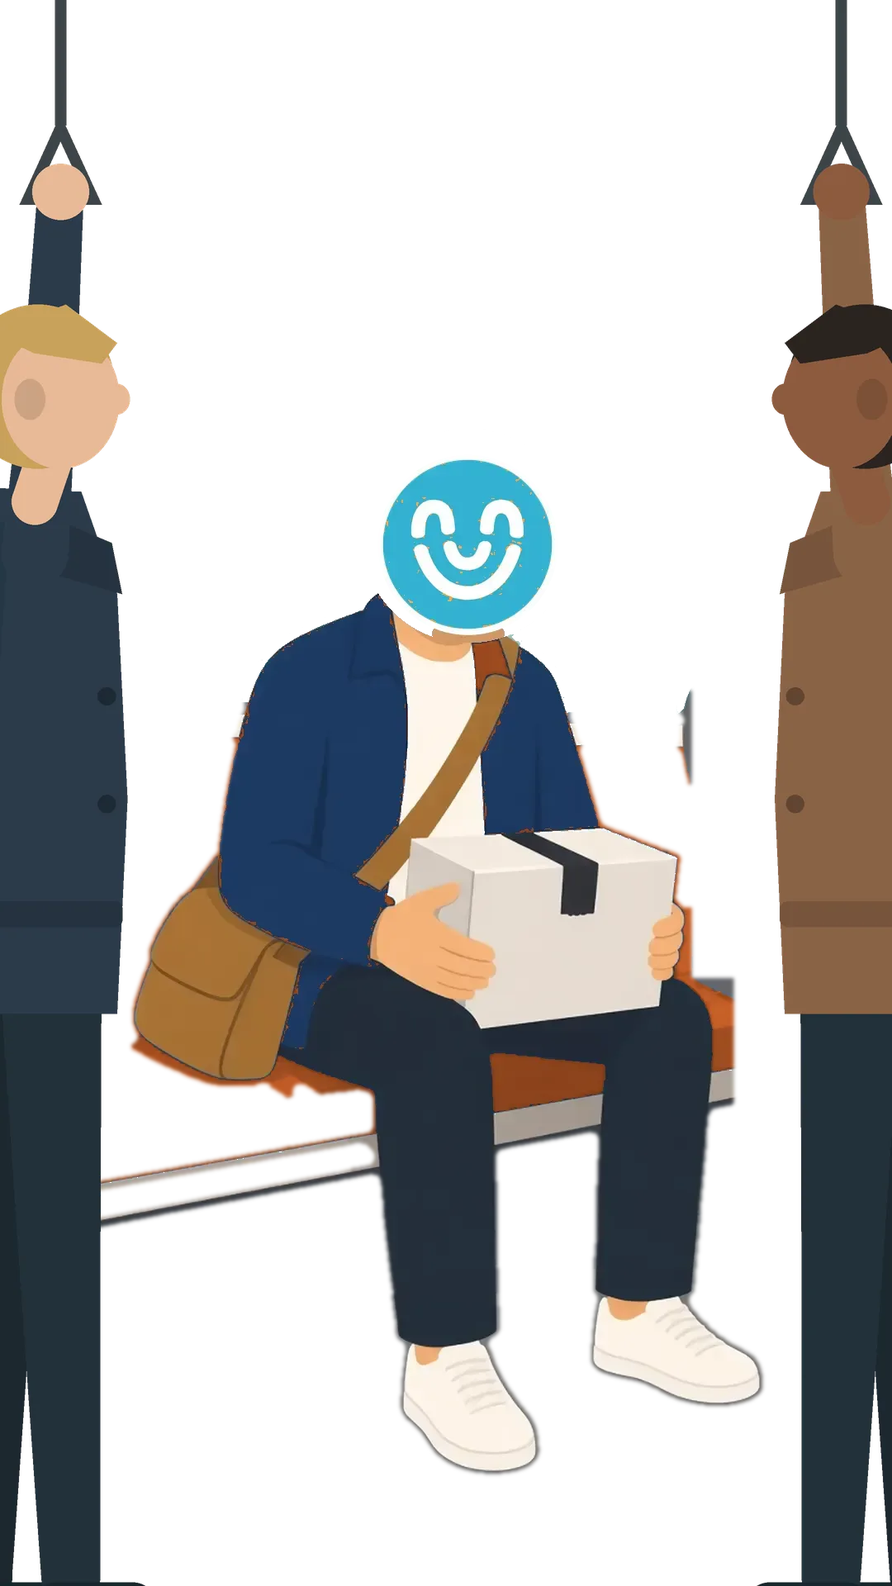
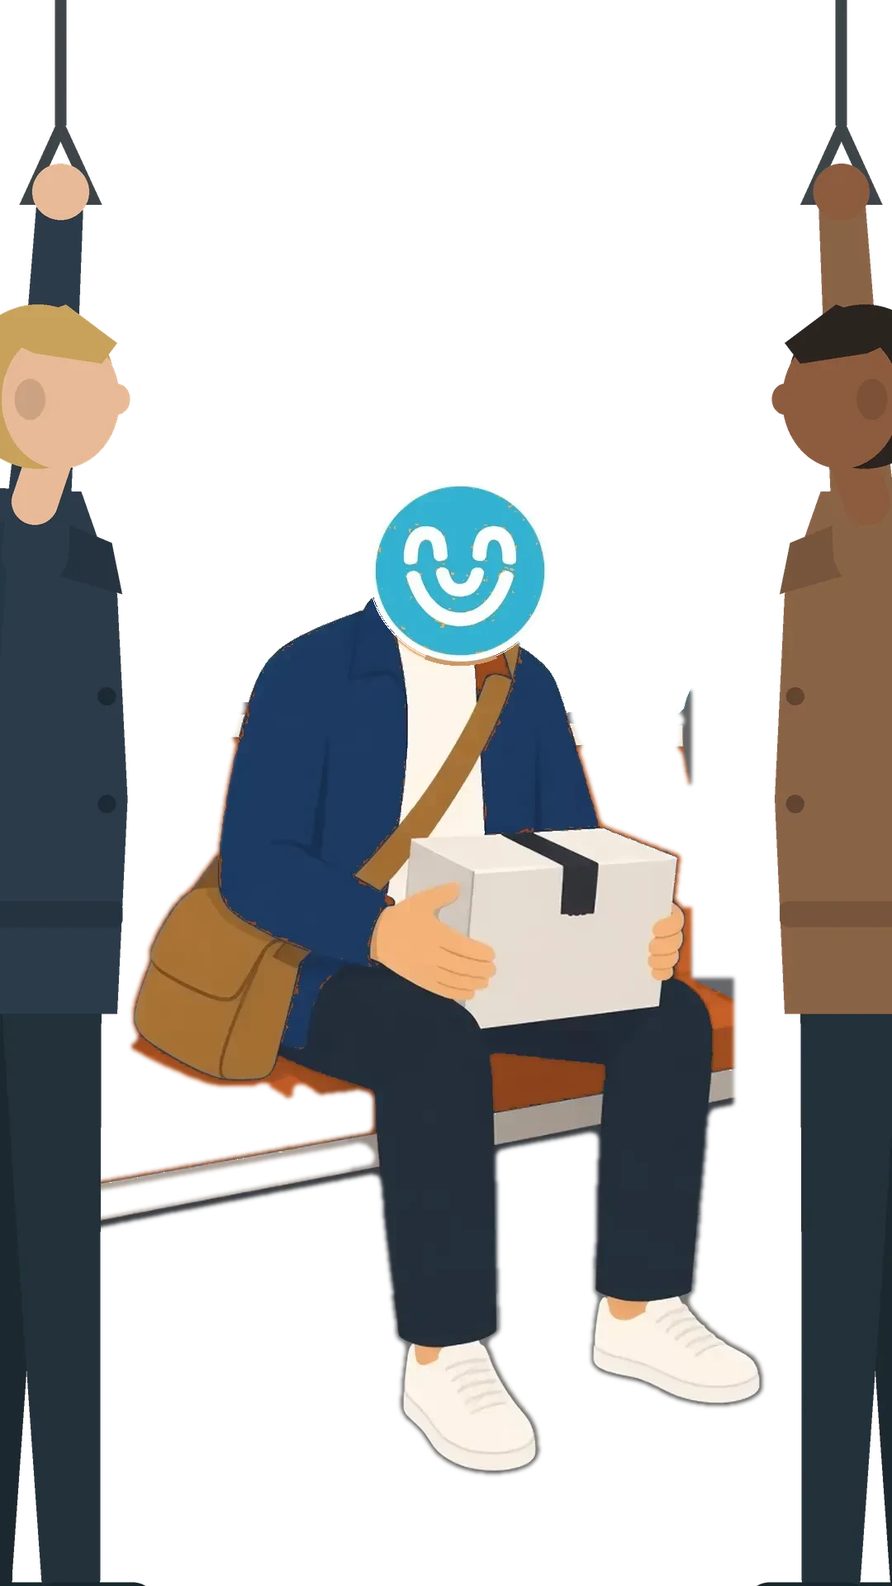
Toko Move v3.19: the ride, inside, and the neck
- a ride stays in the car for its length: the window slows at each stop
  the line passes, the sign names the next one, the corner map follows;
- cards aboard dealt half again as often (the ladder holds);
- Toko's head moved onto the courier's collar in the 12 tram and metro
  interior layers (fix_neck.py, from the originals in _prev/neck/);
- test seeds where the decks moved; the trailer's lady seed.

Claude-Session: https://claude.ai/code/session_01RChotXKfvWe8T4TEqhykSN

Changed region(s): [[0.3972, 0.2812, 0.6417, 0.4375]]

diff --git a/toko-move/js/play.js b/toko-move/js/play.js
@@ -26,7 +26,7 @@
 // none of them is a timer the game waits on to be fair: the state has already
 // moved when it starts.
 import { tr } from './lang.js?v=16';
-import * as J from './journey.js?v=7';
+import * as J from './journey.js?v=8';
 import * as Runs from './runs.js?v=5';
 import { HopBoard } from './hopboard.js?v=4';
 import { loadGround } from './ground.js?v=12';
@@ -46,7 +46,7 @@ import { MOMENTS, faceIn, keepIn, pickupMoment, deliveryMoment, boardMoment, wal
 import { resolveMode, dailyShare, errandShare, errandStore, errandOf, W } from './modes.js?v=6';
 import { recordDaily, todayRecord, streak, dateKey } from './daily.js?v=2';
 
-export const BUILD_VERSION = '3.18';
+export const BUILD_VERSION = '3.19';
 const $ = id => document.getElementById(id);
 const params = new URLSearchParams(location.search);
 // a run of the ladder, today's daily, or a day of the week (modes.js, ACT1.md §12)
@@ -216,7 +216,7 @@ const CSS = `
 @media (prefers-reduced-motion:reduce){.evVery{animation:none}}
 .v3sign{display:flex;align-items:center;gap:10px;padding:12px 16px;border-radius:14px;background:#101418;color:#ffb648;font:700 15px/1.2 ui-monospace,'SF Mono',Menlo,Consolas,monospace;letter-spacing:1px;box-shadow:0 0 0 2px #2a2f34,0 4px 14px rgba(0,0,0,.35);animation:v3stamp .22s ease-out both;flex-wrap:wrap}
 .v3sign .lb{display:inline-grid;place-items:center;min-width:34px;height:26px;padding:0 6px;border-radius:6px;color:#fff;font-weight:900}
-.v3sign .nx{color:#fff}.v3sign .model{flex-basis:100%;font-size:11px;color:#8a949b;letter-spacing:2px}
+.v3sign .nx{color:#fff}.v3sign .then{flex-basis:100%;font-size:11px;color:#ffb648;opacity:.75;letter-spacing:1.5px}.v3sign .model{flex-basis:100%;font-size:11px;color:#8a949b;letter-spacing:2px}
 .v3stamp{display:flex;flex-direction:column;align-items:center;gap:5px;padding:16px;border-radius:18px;background:#fffdf7;border:3px solid #233d4d;box-shadow:0 6px 20px rgba(21,38,43,.25);text-align:center;animation:v3bump .42s cubic-bezier(.2,.9,.3,1.35) both}
 @keyframes v3bump{0%{opacity:0;transform:translateY(24px) scale(.92) rotate(-1.5deg)}100%{opacity:1;transform:none}}
 .v3stamp .big{font-size:21px;font-weight:900;letter-spacing:3px;color:#233d4d}
@@ -690,12 +690,41 @@ addEventListener('keydown', e => { if (skip && !stage.hidden && (e.key === ' ' |
 
 // The in-car display: the line, where it is going, the next stop — and, on a
 // tram, which tram (look only).
-function sign(hop) {
+function sign(hop, next = null) {
   const layer = board.transit.layers.find(l => l.id === hop.line?.sourceId), ink = layer?.colour || '#52676d';
   const where = J.terminus(net, hop);
   const end = where && where !== net.name(hop.to) ? `<span>${esc(String(where).toUpperCase())}</span><span aria-hidden="true">›</span>` : '<span aria-hidden="true">›</span>';
   const model = hop.model && hop.model !== 'metro' ? `<span class="model">${esc(modelName(hop.model).toUpperCase())}</span>` : '';
-  panel.innerHTML = `<div class="v3sign" role="status"><span class="lb" style="background:${ink}">${esc(hop.line.mode === 'metro' ? 'M' : (hop.line.family || hop.line.label))}</span>${end}<span class="nx">${esc(net.name(hop.to).toUpperCase())}</span>${model}</div>`;
+  const nx = next && next !== hop.to ? `<span class="nx">${esc(net.name(next).toUpperCase())}</span><span class="then">then ${esc(net.name(hop.to).toUpperCase())}</span>` : `<span class="nx">${esc(net.name(hop.to).toUpperCase())}</span>`;
+  panel.innerHTML = `<div class="v3sign" role="status"><span class="lb" style="background:${ink}">${esc(hop.line.mode === 'metro' ? 'M' : (hop.line.family || hop.line.label))}</span>${end}${nx}${model}</div>`;
+}
+
+// THE RIDE, INSIDE (v3.19; owner: "The traveling on a tram visual is a great one and should be
+// used more … the background looks great moving … a longer loop of travel"). A ride stays in
+// the car for its whole length: the window carries the travel and slows at each stop the line
+// passes, the sign names the next one, and the corner map follows the courier along the line.
+// A tap hurries it, as a hop on the board always could.
+function rideInside(hop, t0 = 0, t1 = 1) {
+  game.boards++; game.rides = (game.rides || 0) + 1; sfx('ride');
+  return new Promise(done => {
+    const line = hop.line, step = line.k > line.i ? 1 : -1, stops = [];
+    for (let k = line.i + step; k !== line.k + step; k += step) stops.push(line.nodes[k]);
+    const dur = CALM ? 400 : (2600 + 2600 * Math.min(1, hop.price / 900)) * (t1 - t0), start = performance.now();
+    const tile = frameEl.querySelector('.L.tile, .L.drift'), anim = tile?.getAnimations?.()[0];
+    const btn = $('v3mini'); btn.hidden = false; mini.resize();
+    const dest = dropOf(S.job), col = S.job ? colourOf(S.job.cargo) : undefined;
+    let over = false, shown = -1;
+    const end = () => { if (over) return; over = true; skip = null; if (anim) anim.playbackRate = 1; btn.hidden = true; done(); };
+    skip = end;
+    const tick = now => { if (over) return; const k = Math.min(1, (now - start) / dur), t = t0 + (t1 - t0) * k;
+      // the stop the car is nearest: slow towards it, and the sign names the next one
+      const at = Math.min(stops.length - 1, Math.floor(t * stops.length)), frac = t * stops.length - at;
+      if (anim) anim.playbackRate = stops.length > 1 && at < stops.length - 1 ? 0.35 + 0.65 * Math.min(1, Math.abs(frac - 1) * 4, frac * 4) : 1 - 0.7 * Math.max(0, (t - 0.85) / 0.15);
+      if (at !== shown) { shown = at; sign(hop, stops[at]); }
+      mini.draw({ at: S.at, hop, t, dest, destColour: col, labels: false, lift: false, halted: haltedLayer });
+      if (k >= 1) end(); else requestAnimationFrame(tick); };
+    requestAnimationFrame(tick);
+  });
 }
 
 // A moment of the job (v3.12): its picture, its line, a beat; skippable.
@@ -748,9 +777,8 @@ async function pick(i) {
       if (r.hop.kind === 'ride') { hideBoard(); paintScene(interior(r.hop), { car: carOf(r.hop), crowd: crowdOf(r.hop) }); sign(r.hop); }
       if (r.unsealed) { await beat(900); await reveal({ say: `Aboard the ${r.unsealed.family}, the label makes sense: ${r.unsealed.stop}.`, chips: [], how: 'win' }); }
       if (r.story) { pendingHop = r.hop; busy = false; return render(); }
-      if (r.hop.kind === 'ride') await beat(1200);
-      panel.innerHTML = '';
-      await rideBoard(r.hop);
+      if (r.hop.kind === 'ride') await rideInside(r.hop);         // v3.19: the ride stays in the car
+      else { panel.innerHTML = ''; await rideBoard(r.hop); }
       if (r.reveal) await reveal(r.reveal);                   // the weather's stakes on a walk land on the way
       if (tram) arrived = { model: r.hop.model, family: r.hop.line.family };
     } else if (wasHop) {
@@ -758,7 +786,8 @@ async function pick(i) {
       pendingHop = null;
       if (r.reveal) await reveal(r.reveal);
       panel.innerHTML = '';
-      await rideBoard(wasHop, wasHop.kind === 'walk' ? 0.5 : 0, 1);
+      if (wasHop.kind === 'ride') { paintScene(interior(wasHop), { car: carOf(wasHop), crowd: crowdOf(wasHop) }); await rideInside(wasHop, 0.4, 1); }
+      else await rideBoard(wasHop, wasHop.kind === 'walk' ? 0.5 : 0, 1);
       if (wasHop.kind === 'ride' && wasHop.model && wasHop.model !== 'metro') arrived = { model: wasHop.model, family: wasHop.line.family };
     } else if (r.kind === 'perk' && r.cash) {
       await reveal({ say: 'You keep the cash.', chips: [`+€${r.cash}`], how: 'win' });

diff --git a/toko-move/index.html b/toko-move/index.html
@@ -50,4 +50,4 @@
 @media (max-width:899px){.evBtn{min-height:52px}}
 </style></head><body>
 <div id="hud"><span id="hudPill"><span id="clock"></span><span class="a" title="deliveries"><b id="done"></b></span><span id="cargoHud" class="ring" title="cargo"><i></i><b id="cargoGlyph">▪</b></span></span><span class="bg" title="bag"><span id="bagHud"></span></span><span class="e" title="time left on this job"><b id="emit"></b></span><span class="sc" title="score"><b id="score"></b></span><span class="mu" title="on-time streak"><b id="mult"></b></span><span class="nx">next <b id="reach"></b></span><span class="sp"><span id="rush" class="rush"></span><span id="lines"></span><button class="ctl" id="transit">MAP</button><button class="ctl" id="sound" aria-label="sound on" aria-pressed="true">♪</button><button class="ctl" id="pause">❚❚</button><button class="ctl" id="speed">×1</button></span></div><canvas id="map" aria-label="Helsinki HSL network with moving gameplay trams and metro"></canvas><div id="transitPanel" hidden><div class="tpHead"><b>EXACT HSL LAYERS</b><button class="ctl x" id="transitClose">✕</button></div><div class="tpMeta" id="transitMeta"></div><div class="tpActions"><button class="ctl" id="tramOnly">TRAMS</button><button class="ctl" id="metroOnly">METRO</button><button class="ctl" id="allTransit">ALL</button></div><div id="transitRows"></div></div><div id="zoomRail" hidden><button class="ctl z" data-scale="stop">STOP</button><button class="ctl z" data-scale="route">ROUTE</button><button class="ctl z" data-scale="city">CITY</button><button class="ctl z" id="recentre" title="back to the courier" hidden>&#9678;</button></div><div id="pop" hidden><button class="ctl x" id="popClose">✕</button><div id="popBody"></div></div><div id="feed"></div><div id="sheet"></div>
-<div class="veil" id="title"><div class="card"><h1>TOKO MOVE</h1><div class="versionHero"><small>PLAYABLE BUILD</small>v3.18</div><p class="hint" id="titleWhen">Helsinki · 07:00 · five minutes</p><div class="cardBody"><p>A courier on the real Helsinki trams. Take a job, catch what is coming, get off where it says.</p><p class="hint" id="titleGoal">Three deliveries before 08:15. Drops on the way are extra.</p><div id="dayCard"></div><p class="hint credits" id="credits">Transit data: Helsinki Regional Transport Authority (HSL), CC BY 4.0 · Map: © OpenStreetMap contributors, ODbL 1.0 · Districts: City of Helsinki · Toko Midori Games</p></div><p class="hint" id="shiftNo"></p><div id="mutRow"></div><button class="btn prime wide" id="play">START SHIFT</button><a class="btn ghost wide" id="dailyLink" href="?daily" hidden>OR TODAY'S DAILY · the same shift for everyone</a><a class="btn ghost wide" id="weekLink" href="?week" hidden></a><a class="btn ghost wide" id="liveLink" href="?live" hidden>OR LIVE · the real trams, right now</a><div id="testCard" hidden></div></div></div><div class="veil" id="paused" hidden><div class="card"><h2>PAUSED</h2><p class="hint">The shift waits while the game is in the background.</p><button class="btn prime wide" id="resume">RESUME</button></div></div><div class="veil" id="upgrade" hidden><div class="card"><h2>TRANSPORT BOARD</h2><p id="upText"></p><div id="upBtns"></div></div></div><div class="veil" id="end" hidden><div class="card"><h1 id="endTitle"></h1><div id="endStats"></div><p class="hint" id="endNote"></p><button class="btn prime wide" id="again">RUN THE DAY AGAIN</button></div></div><script type="module" src="js/boot.js?v=18"></script><script type="module" src="../hub/shell.js?v=43"></script></body></html>
+<div class="veil" id="title"><div class="card"><h1>TOKO MOVE</h1><div class="versionHero"><small>PLAYABLE BUILD</small>v3.19</div><p class="hint" id="titleWhen">Helsinki · 07:00 · five minutes</p><div class="cardBody"><p>A courier on the real Helsinki trams. Take a job, catch what is coming, get off where it says.</p><p class="hint" id="titleGoal">Three deliveries before 08:15. Drops on the way are extra.</p><div id="dayCard"></div><p class="hint credits" id="credits">Transit data: Helsinki Regional Transport Authority (HSL), CC BY 4.0 · Map: © OpenStreetMap contributors, ODbL 1.0 · Districts: City of Helsinki · Toko Midori Games</p></div><p class="hint" id="shiftNo"></p><div id="mutRow"></div><button class="btn prime wide" id="play">START SHIFT</button><a class="btn ghost wide" id="dailyLink" href="?daily" hidden>OR TODAY'S DAILY · the same shift for everyone</a><a class="btn ghost wide" id="weekLink" href="?week" hidden></a><a class="btn ghost wide" id="liveLink" href="?live" hidden>OR LIVE · the real trams, right now</a><div id="testCard" hidden></div></div></div><div class="veil" id="paused" hidden><div class="card"><h2>PAUSED</h2><p class="hint">The shift waits while the game is in the background.</p><button class="btn prime wide" id="resume">RESUME</button></div></div><div class="veil" id="upgrade" hidden><div class="card"><h2>TRANSPORT BOARD</h2><p id="upText"></p><div id="upBtns"></div></div></div><div class="veil" id="end" hidden><div class="card"><h1 id="endTitle"></h1><div id="endStats"></div><p class="hint" id="endNote"></p><button class="btn prime wide" id="again">RUN THE DAY AGAIN</button></div></div><script type="module" src="js/boot.js?v=19"></script><script type="module" src="../hub/shell.js?v=43"></script></body></html>

diff --git a/hub/games.js b/hub/games.js
@@ -109,17 +109,17 @@ export const GAMES = [
       tagline: 'Lähetin vuoro Helsingissä kortti kerrallaan: mikä ratikka, mihin suuntaan, ketä autat. Kello liikkuu vain, kun valitset.',
       lineage: '80 Days × Mini Metro × oikea Helsinki',
       controls: 'napauta korttia · valitse ratikka tai kävely · avaa kartta kulmasta',
-      note: 'UUTTA v3.18: kolme vaihtoehtoa joka valinnassa, joista kolmas on joskus erikoinen tai erittäin erikoinen (taksi, tavarapyöräkyyti, pikakeikka), ja valikot samalla kortilla. v3.17: tehtävät kartalla, ja päivän asia, sama kaikille.',
+      note: 'UUTTA v3.19: ratikkamatka kulkee nyt kokonaan vaunussa, ikkuna liikkuu ja pysähtyy pysäkeillä, ja Tokon pää istuu taas kaulalla. v3.18: kolme vaihtoehtoa joka valinnassa, joista kolmas on joskus erikoinen tai erittäin erikoinen (taksi, tavarapyöräkyyti, pikakeikka), ja valikot samalla kortilla.',
     },
     ja: {
       tagline: 'ヘルシンキの配達シフトを一枚ずつ。どのトラム、どの道、誰を助けるか。時計は選んだときだけ進む。',
       lineage: '80 Days × Mini Metro × 実在のヘルシンキ',
       controls: 'カードをタップ · トラムか徒歩を選ぶ · 角の地図を開く',
-      note: 'v3.18の新着：すべての選択に3つの選択肢、3つ目は時々スペシャル（タクシー、カーゴバイク、急ぎ便）。メニューも同じカードに。v3.17：ミッションが地図に、そして毎日の用事（全員同じ）。',
+      note: 'v3.19の新着：トラムの移動は車内で最後まで、窓の景色が動き停留所で止まる。トコの頭も首の上に。v3.18：すべての選択に3つの選択肢、3つ目は時々スペシャル（タクシー、カーゴバイク、急ぎ便）。メニューも同じカードに。',
     },
     status: 'active',
     live: true,
-    note: 'NEW in v3.18: three options at every choice, the third sometimes special or very special (a taxi, a cargo bike lift, an express job), and the menus on the same card. v3.17: the missions on the map, and today\'s errand, the same for everyone.',
+    note: 'NEW in v3.19: a tram ride stays inside the car, the window slowing at each stop and the corner map following you, and Toko\'s head sits on the neck again. v3.18: three options at every choice, the third sometimes special or very special (a taxi, a cargo bike lift, an express job), and the menus on the same card.',
     title: 'Toko Move',
     tagline: 'A courier\'s shift in Helsinki, one card at a time: which tram, which way, who to help. The clock only moves when you choose.',
     lineage: '80 Days × Mini Metro × real Helsinki',

diff --git a/toko-move/js/journey.js b/toko-move/js/journey.js
@@ -113,10 +113,12 @@ const pickOf = (s, list) => list[Math.floor(rand(s) * list.length)];
 // The deck a run deals (ACT1.md §5): one card a job, from the run's own tones,
 // places and weather — a card that needs a weather the shift has not got is
 // not in it, and one that has it is twice as likely; one buyer a shift.
+// (v3.19) a card aboard is played in the car, the view the owner wants more of: half again as likely
+export const ABOARD = 1.5;
 export function dealDeck(s, run, weather) {
   const tones = run.tones || { fun: 1 }, places = run.places || null;
   const weight = c => (c.weather && !c.weather.includes(weather)) || (places && !places.includes(c.where) && c.where !== 'any') ? 0
-    : Math.max(...c.tone.map(t => tones[t] || 0)) * (c.weather ? 2 : 1);
+    : Math.max(...c.tone.map(t => tones[t] || 0)) * (c.weather ? 2 : 1) * (c.where === 'aboard' ? ABOARD : 1);
   const out = [];
   for (let i = 0; i < (run.cards ?? 3); i++) {
     const pool = CARDS.filter(c => !out.some(d => d.card.id === c.id) && !(c.sale && out.some(d => d.card.sale)) && weight(c) > 0);

diff --git a/toko-move/js/main-v212.js b/toko-move/js/main-v212.js
@@ -1,7 +1,7 @@
 // Toko Move v2.12.2 runtime — clean HSL core + transfer hubs + walking/interception + two-job carry.
 // first, so every word the modules below draw passes through it (v2.66)
 import {tr} from './lang.js?v=16';
-import './core-v212.js?v=92';
+import './core-v212.js?v=93';
 import './route-choice.js?v=28';
 import {LiveNetwork,HEADWAY_MIN,MODE_KMH} from './live-network.js?v=17';
 import {hidden as fogHides} from './weather.js?v=1';
@@ -33,7 +33,7 @@ import {mountAudio} from './audio.js?v=2';
 import {mountTestCard} from './testcard.js?v=3';
 import {mountRecovery} from './recovery-v212.js?v=3';
 import {about,inMinutes} from './ui.js?v=2';
-const BUILD_VERSION='3.18';
+const BUILD_VERSION='3.19';
 function mount(){const tm=window.__tm;if(!tm?.transit||!tm?.flow||!tm?.city){setTimeout(mount,50);return;}tm.version=BUILD_VERSION;// THE DAY IS DRAWN BEFORE THE FLEET, because one of the four is a timetable:
 // QUIET SUNDAY provisions fewer trams, and a fleet cannot be re-provisioned
 // after its vehicles exist without every phase in it moving under the player.

diff --git a/toko-move/js/core-v212.js b/toko-move/js/core-v212.js
@@ -30,7 +30,7 @@ import * as Rush from './rush.js?v=1';
 import {colourOf,parcelHtml,bagHtml} from './parcels.js?v=1';
 
 const $=id=>document.getElementById(id);
-const BUILD_VERSION='3.18';
+const BUILD_VERSION='3.19';
 const MAP_THEME={...THEME,latent:THEME.paper,hideQueues:true,hideLoadMarks:true,hideCarriers:true,modeColours:{metro:'rgba(0,0,0,0)',tram:'rgba(0,0,0,0)',car:'rgba(0,0,0,0)'}};
 const cargoColour=colourOf;   // ONE palette: this file and the job board drew the same parcel in two different colours until v2.43
 const esc=s=>String(s??'').replace(/[&<>\"]/g,ch=>({'&':'&amp;','<':'&lt;','>':'&gt;','\"':'&quot;'}[ch]||ch));

diff --git a/toko-move/js/boot.js b/toko-move/js/boot.js
@@ -12,5 +12,5 @@ const p = new URLSearchParams(location.search);
 // them carry it, so a classic week stays a classic week.
 const CLASSIC = ['classic', 'shift', 'day', 'weather', 'rush', 'kit', 'live', 'skin', 'mutator'].some(k => p.has(k));
 if (CLASSIC) for (const id of ['dailyLink', 'weekLink']) { const a = document.getElementById(id); if (a) a.setAttribute('href', `${a.getAttribute('href')}&classic`); }
-if (CLASSIC) import('./main-v212.js?v=94');
-else import('./play.js?v=18');
+if (CLASSIC) import('./main-v212.js?v=95');
+else import('./play.js?v=19');

diff --git a/toko-move/art/minimal-metro-look/fix_neck.py b/toko-move/art/minimal-metro-look/fix_neck.py
@@ -1,0 +1,51 @@
+"""Seat Toko's head on the courier's neck in the tram and metro interiors
+(toko-move v3.19; owner, 2026-11-08: "The neck is a bit disconnected").
+
+The face disc sat high on the 04-courier layers: about 40 px of neck showed
+between its ring and the collar. This moves the disc (the cyan face and its
+white ring, as one circular patch) down so its ring meets the collar, and
+centres it over the neck. It always works from the originals, kept in
+_prev/neck/ the first time it runs, so running it again gives the same files. A redrawn courier from the art request (ART-REQUEST-v3.18, item 2)
+replaces all of this.
+
+  python3 fix_neck.py            # writes ../../scenes/{tram,metro}/{916,169}/04-courier*.webp
+"""
+import glob, os, shutil
+import numpy as np
+from PIL import Image
+
+HERE = os.path.dirname(os.path.abspath(__file__))
+SCENES = os.path.join(HERE, '..', '..', 'scenes')
+GAP = {'916': 12, '169': 14}          # how much neck may show under the ring, px
+
+def measure(a):
+    r, g, b, al = (a[..., i].astype(int) for i in range(4))
+    cyan = (al > 200) & (b > 170) & (g > 150) & (r < 110) & (b - r > 90)
+    ys, xs = np.nonzero(cyan)
+    cx, cy, R = xs.mean(), ys.mean(), (xs.max() - xs.min()) / 2
+    skin = (al > 200) & (r > 150) & (r < 235) & (g > 100) & (g < 190) & (b > 60) & (b < 150) & (r - b > 50)
+    band = np.zeros_like(skin); band[int(cy + R * 0.7):int(cy + R * 1.6), int(cx - R * 1.3):int(cx + R * 1.3)] = True
+    sy, sx = np.nonzero(skin & band)
+    return cx, cy, R, sx.mean(), sy.max()
+
+def seat(path, fmt):
+    keep = os.path.join(HERE, '_prev', 'neck', path.split('scenes' + os.sep)[1].replace(os.sep, '__'))
+    if not os.path.exists(keep): shutil.copy(path, keep)  # the original, once
+    a = np.array(Image.open(keep).convert('RGBA'))
+    cx, cy, R, nx, collar = measure(a)
+    ring = R * 1.13 + 2                                   # the white ring outside the cyan
+    dx, dy = round(nx - cx), round(collar - GAP[fmt] - (cy + ring))
+    H, W = a.shape[:2]; yy, xx = np.mgrid[0:H, 0:W]
+    old = (xx - cx) ** 2 + (yy - cy) ** 2 <= ring ** 2
+    patch = np.zeros_like(a); patch[old] = a[old]
+    out = a.copy(); out[old] = 0                           # the head lifts off
+    moved = np.roll(np.roll(patch, dy, axis=0), dx, axis=1)
+    m = moved[..., 3] > 0
+    out[m] = moved[m]                                      # and is set down on the neck
+    Image.fromarray(out).save(path, 'WEBP', quality=90, method=6)
+    return dx, dy
+
+for mode in ('tram', 'metro'):
+    for fmt in ('916', '169'):
+        for p in sorted(glob.glob(os.path.join(SCENES, mode, fmt, '04-courier*.webp'))):
+            print(os.path.relpath(p, SCENES), 'moved by', seat(p, fmt))

diff --git a/toko-move/VERSIONS.md b/toko-move/VERSIONS.md
@@ -1,5 +1,44 @@
 # Toko Move — versions
 
+## v3.19 — 2026-11-08
+
+**THE RIDE, INSIDE, AND THE NECK** — the owner, on v3.17: *"The traveling on a
+tram visual is a great one and should be used more. The neck is a bit
+disconnected but the background looks great moving. Similar ones should for a
+longer loop of travel, animations and choices."*
+
+- **A ride stays in the car.** It used to show the interior for a beat, then
+  cut to the board. Now the whole ride plays inside, for 2.6 to 5.2 seconds by
+  how long it is:
+  - the window carries the travel and slows at each stop the line passes;
+  - the sign names the next stop (*"then RUOHOLAHTI"* under it);
+  - the corner map follows the courier along the line.
+
+  A tap hurries it, as before. After a card aboard, the rest of the ride is
+  played in the car too. Walks and lifts still go on the board.
+- **More choices aboard.** Cards that happen aboard are dealt half again as
+  often, so more of them are played in the car. Bands, reader · tapper:
+
+  | run | reader | tapper |
+  |---|---|---|
+  | EASY | 60/60 | 60/60 |
+  | MEDIUM | 56 | 50 |
+  | HARD | 54 | 44 |
+  | NIGHT | 51 | 25 |
+
+  The ladder holds.
+- **The neck.** Toko's head sat high on the courier in the tram and metro
+  interiors, with about 40 px of neck between the ring and the collar. It is
+  moved down onto the collar and centred over the neck, in all 12 layers
+  (tram and metro, both formats, every crowd and old-car variant).
+  - `art/minimal-metro-look/fix_neck.py` does it from the originals, kept in
+    `_prev/neck/`, so running it again gives the same files.
+  - The art request (PR #633) asks for the courier redrawn at the source,
+    which replaces this.
+- **Gates.** `test/play.cjs`: a ride is played inside the car with the corner
+  map; new seeds where the decks moved (the crush in the metro, MEDIUM 1162;
+  the tourist, the crossing and the saved seat, EASY 1152).
+
 ## v3.18 — 2026-11-08
 
 **THREE AT EVERY CHOICE, AND THE MENUS WEAR THE CARD** — the owner, on

diff --git a/toko-move/ROADMAP.md b/toko-move/ROADMAP.md
@@ -93,7 +93,7 @@ sometimes be special or very special. This same lower third look, should be used
 in menus and the intro screen."*
 
 11. ~~**v3.18 · Three at every choice, and the menus wear the card.**~~ Shipped.
-12. **v3.19 · The ride, longer.** The tram interior as the stage for a longer
+12. ~~**v3.19 · The ride, longer.**~~ Shipped: the ride stays in the car, the neck mended; the art for more (window views, poses, passengers) is asked for in PR #633. The tram interior as the stage for a longer
     stretch of travel: the ride held, more aboard (cards, the people moving),
     choices made riding; and the courier's neck mended (Toko's head sits left
     of the neck in the interior layers).
